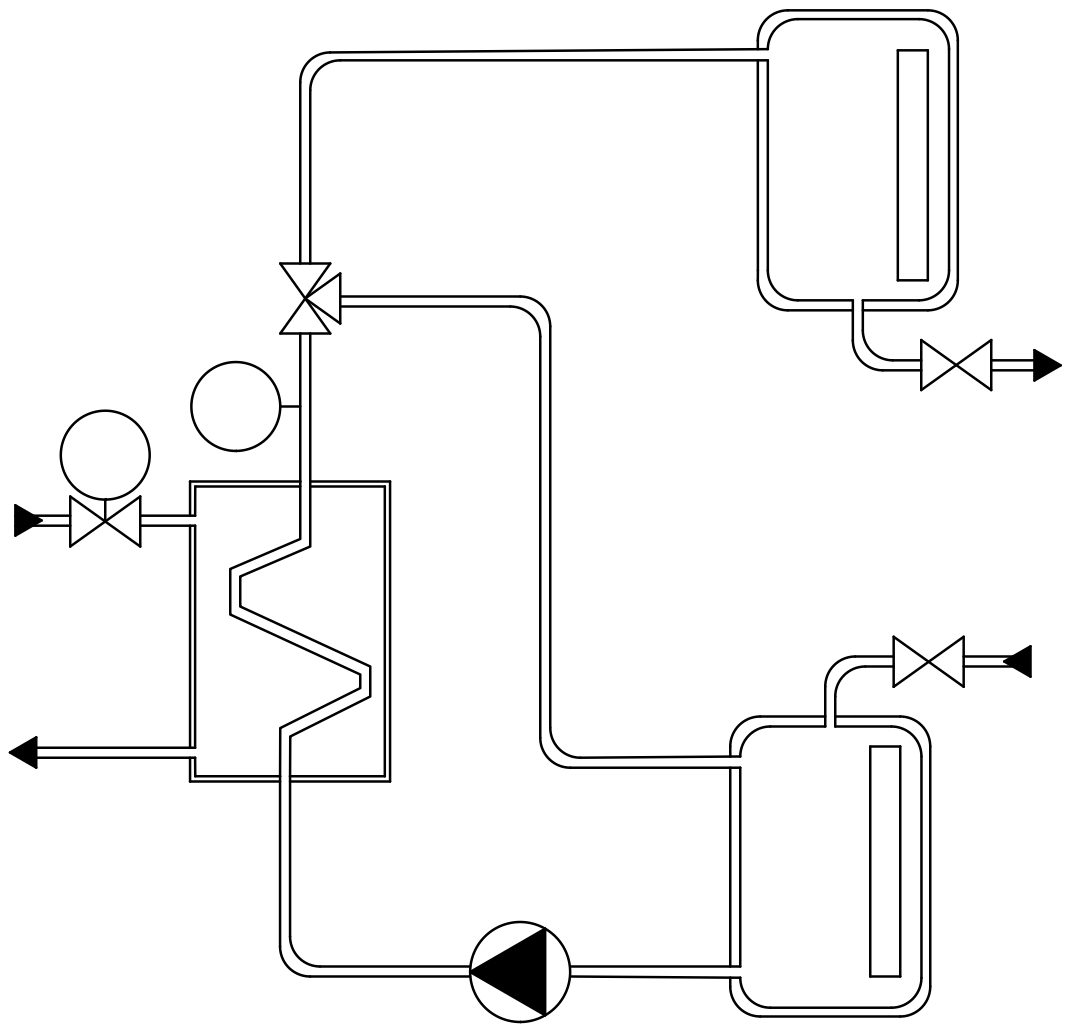
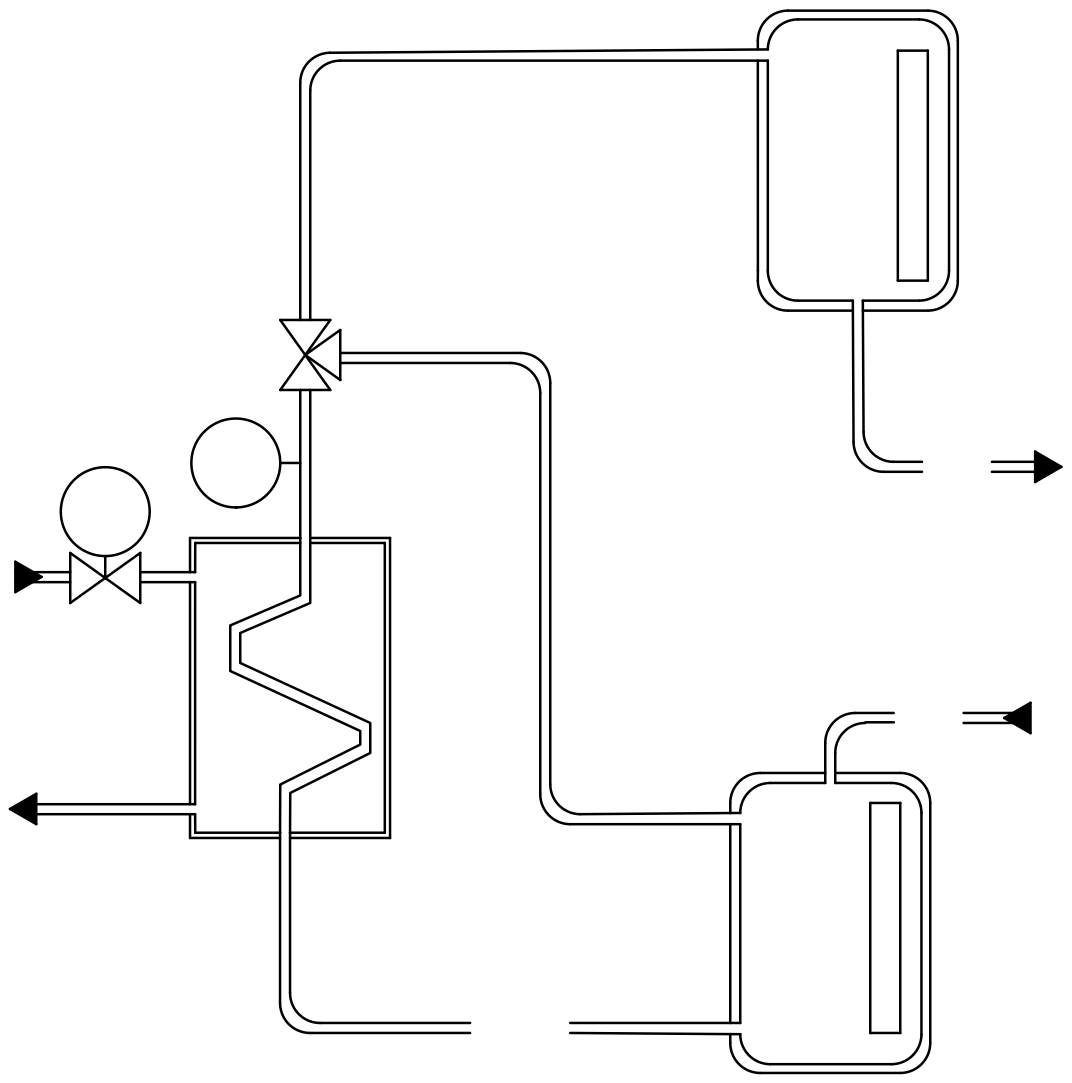
interactive elements

Changed region(s): [[0.0, 0.0, 0.986, 0.9922], [0.9244, 0.4031, 0.986, 0.4651]]

diff --git a/lib/pages/scheme.dart b/lib/pages/scheme.dart
@@ -1,5 +1,9 @@
+import 'dart:math';
+
 import 'package:flutter/material.dart';
-import 'package:shevtsov_promo_app/components/scheme/pump.dart';
+import 'package:shevtsov_promo_app/components/scheme/interactive_circuit_element.dart';
+import 'package:shevtsov_promo_app/components/scheme/paint_pump.dart';
+import 'package:shevtsov_promo_app/components/scheme/paint_valve.dart';
 
 class Scheme extends StatelessWidget {
     
@@ -7,7 +11,7 @@ class Scheme extends StatelessWidget {
 
     @override
     Widget build(BuildContext context) {    // TODO: implement build
-        return Container(
+        return SizedBox(
             width: double.infinity,
             height: double.infinity,
             child: InteractiveViewer(
@@ -20,10 +24,38 @@ class Scheme extends StatelessWidget {
                         Image.asset("assets/images/flutter_test.jpg",
                             fit: BoxFit.none,
                         ),
-                        const Positioned(
-                            top: 970,
-                            left: 522,
-                            child: Pump(),
+                        Positioned(
+                            top: 900,
+                            left: 448,
+                            child: InteractiveCircuitElement(
+                                (Color color) => PaintPump(color, pi, 1.3),
+                                () { debugPrint("!  !  !"); },
+                                enalbed: true,
+                                error: true,
+                                manual: false,
+                            ),
+                        ),
+                        Positioned(
+                            top: 590,
+                            left: 857,
+                            child: InteractiveCircuitElement(
+                                (Color color) => PaintValve(color),
+                                () { debugPrint("!  !  !"); },
+                                enalbed: true,
+                                error: false,
+                                manual: false,
+                            ),
+                        ),
+                        Positioned(
+                            top: 338,
+                            left: 880,
+                            child: InteractiveCircuitElement(
+                                (Color color) => PaintValve(color),
+                                () { debugPrint("!  !  !"); },
+                                enalbed: false,
+                                error: false,
+                                manual: true,
+                            ),
                         ),
                     ],
                 ),

diff --git a/lib/components/scheme/interactive_circuit_element.dart b/lib/components/scheme/interactive_circuit_element.dart
@@ -1,0 +1,76 @@
+import 'package:flutter/material.dart';
+
+ class InteractiveCircuitElement extends StatelessWidget {
+
+    final bool enalbed;
+    final bool manual;
+    final bool error;
+    final CustomPainter Function(Color) child;
+    final void Function() tapHandler;
+
+    const InteractiveCircuitElement(
+        this.child,
+        this.tapHandler,
+    {
+        super.key,
+        this.enalbed = false,
+        this.manual = false,
+        this.error = false,
+    });
+
+    @override
+    Widget build(BuildContext context) => GestureDetector(
+        onDoubleTap: tapHandler,
+        child: Container(
+            decoration: BoxDecoration(
+                border: Border.all(color: Colors.black),
+            ),
+            padding: const EdgeInsets.all(5),
+            width: 140,
+            height: 200,
+            child: CustomPaint(
+                painter: child(_getColor()),
+                child: Align(
+                    alignment: Alignment.topCenter,
+                    child: Container(
+                        height: 50,
+                        width: 140,
+                        alignment: Alignment.center,
+                        color: _getTextColor(),
+                        child: Text(
+                            _getText(),
+                            style: const TextStyle(fontSize: 35),
+                        ),
+                    ),
+                ),
+            ),
+        ),
+    );
+
+    Color _getColor() => enalbed ? Colors.green : Colors.grey;
+
+    String _getText() {
+        if (error) {
+            return "Alarm";
+        }
+
+        if (manual) {
+            return "Руч.";
+        }
+
+        return "Авто.";
+    }
+
+    Color _getTextColor() {
+        if (error) {
+            return Colors.red;
+        }
+
+        if (manual) {
+            return Colors.orange;
+        }
+
+        return Colors.green;
+
+    }
+}

diff --git a/lib/components/scheme/paint_valve.dart b/lib/components/scheme/paint_valve.dart
@@ -1,0 +1,70 @@
+import 'package:flutter/material.dart';
+import 'package:shevtsov_promo_app/components/scheme/configurable_path.dart';
+
+
+class PaintValve extends CustomPainter {
+
+    final Color _color;
+    final double _corner;
+    final double _size;
+    final (double, double) _shift = (65, 120);
+
+    PaintValve(
+        Color color,
+    [
+        double corner = 0.0,
+        double size = 1.0,
+    ]): 
+        _color = color,
+        _size = size,
+        _corner = corner
+    ;
+
+    @override
+    void paint(Canvas canvas, Size size) {
+        final paint = Paint()
+            ..strokeWidth = 3
+            ..color = _color
+        ;
+
+        final pathConfig = PathConfig(_corner, _size, _shift);
+
+        final path = ConfigurablePath(pathConfig)
+            ..cMamoveTo(-40, -30)
+            ..cLineTo(-40, 30)
+            ..cLineTo(40, -30)
+            ..cLineTo(40, 30)
+            ..cLineTo(-40, -30)
+        ;
+
+        canvas.drawPath(path.path(), paint);
+
+        _paintStatic(canvas);
+    }
+
+    void _paintStatic(Canvas canvas) {
+        final paint = Paint()
+            ..strokeWidth = 3
+            ..color = Colors.black
+        ;
+        canvas.drawCircle(Offset(_shift.$1, _shift.$2), 10 * _size, paint);
+
+        paint.style = PaintingStyle.stroke;
+
+        final pathConfig = PathConfig(_corner, _size, _shift);
+
+        final path = ConfigurablePath(pathConfig)
+            ..cMamoveTo(-40, -30)
+            ..cLineTo(-40, 30)
+            ..cLineTo(40, -30)
+            ..cLineTo(40, 30)
+            ..cLineTo(-40, -30)
+        ;
+
+        canvas.drawPath(path.path(), paint);
+        
+    }
+
+    @override
+    bool shouldRepaint(CustomPainter oldDelegate) => false;
+}

diff --git a/lib/components/scheme/configurable_path.dart b/lib/components/scheme/configurable_path.dart
@@ -3,17 +3,32 @@ import 'dart:math';
 import 'package:flutter/material.dart';
 
 
-class ConfigurablePath extends Path {
+class ConfigurablePath {
+
+    final PathConfig _config;
+    final Path _path = Path();
+
+    ConfigurablePath(PathConfig config): _config = config;
     
-    void cMamoveTo(double x, double y, [double corner = 0, double size = 1]) {
-        final (x1, y1) = _turner(x * size, y * size, corner);
-        moveTo(x1, y1);
+    void cMamoveTo(double x, double y) {
+        final (x1, y1) = _turner(
+            x * _config.size,
+            y * _config.size,
+            _config.corner
+        );
+        _path.moveTo(x1 + _config.shift.$1, y1 +  _config.shift.$2);
     }
 
-    void cLineTo(double x, double y, [double corner = 0, double size = 1]) {
-        final (x1, y1) = _turner(x * size, y * size, corner);
-        lineTo(x1, y1);
+    void cLineTo(double x, double y) {
+        final (x1, y1) = _turner(
+            x * _config.size,
+            y * _config.size,
+            _config.corner
+        );
+        _path.lineTo(x1 + _config.shift.$1, y1 +  _config.shift.$2);
     }
+
+    Path path() => _path;
 
 
     (double, double) _turner(double x, double y, [double corner = 0]) {
@@ -24,3 +39,14 @@ class ConfigurablePath extends Path {
     }
 }
 
+class PathConfig {
+    final double corner;
+    final double size;
+    final (double, double) shift;
+
+    const PathConfig([
+        this.corner = 0.0,
+        this.size = 1.0,
+        this.shift = (0.0, 0.0),
+    ]);
+}

diff --git a/lib/components/scheme/paint_pump.dart b/lib/components/scheme/paint_pump.dart
@@ -1,0 +1,55 @@
+import 'package:flutter/material.dart';
+import 'package:shevtsov_promo_app/components/scheme/configurable_path.dart';
+
+
+class PaintPump extends CustomPainter {
+
+    final Color _color;
+    final double _corner;
+    final double _size;
+    final (double, double) _shift = (65, 120);
+
+    PaintPump(
+        Color color,
+    [
+        double corner = 0.0,
+        double size = 1.0,
+    ]): 
+        _color = color,
+        _size = size,
+        _corner = corner;
+
+    @override
+    void paint(Canvas canvas, Size size) {
+        final paint = Paint()
+            ..strokeWidth = 3
+            ..color = _color
+        ;
+
+        final pathConfig = PathConfig(_corner, _size, _shift);
+
+        final path = ConfigurablePath(pathConfig)
+            ..cMamoveTo(-20, -35)
+            ..cLineTo(-20, 35)
+            ..cLineTo(40, 0)
+            ..cLineTo(-20, -35);
+
+        canvas.drawPath(path.path(), paint);
+
+        _paintStatic(canvas);
+    }
+
+    void _paintStatic(Canvas canvas) {
+        final paint = Paint()
+            ..style = PaintingStyle.stroke
+            ..strokeWidth = 3
+            ..color = Colors.black
+        ;
+
+        canvas.drawCircle(Offset(_shift.$1, _shift.$2), 40 * _size, paint);
+        
+    }
+
+    @override
+    bool shouldRepaint(CustomPainter oldDelegate) => false;
+}

diff --git a/lib/theme.dart b/lib/theme.dart
@@ -4,9 +4,9 @@ final theme = ThemeData(
     colorScheme: ColorScheme.fromSeed(seedColor: Colors.blueAccent),
     useMaterial3: true,
     textTheme: const TextTheme(
-        displaySmall: TextStyle(fontSize: 22, backgroundColor: Colors.green),
-        displayMedium: TextStyle(fontSize: 22, backgroundColor: Colors.orange),
-        displayLarge: TextStyle(fontSize: 22, backgroundColor: Colors.red),
+        displaySmall: TextStyle(fontSize: 35, backgroundColor: Colors.green),
+        displayMedium: TextStyle(fontSize: 35, backgroundColor: Colors.orange),
+        displayLarge: TextStyle(fontSize: 35, backgroundColor: Colors.red),
         bodySmall: TextStyle(fontSize: 22, backgroundColor: Colors.grey),
     )
 );
